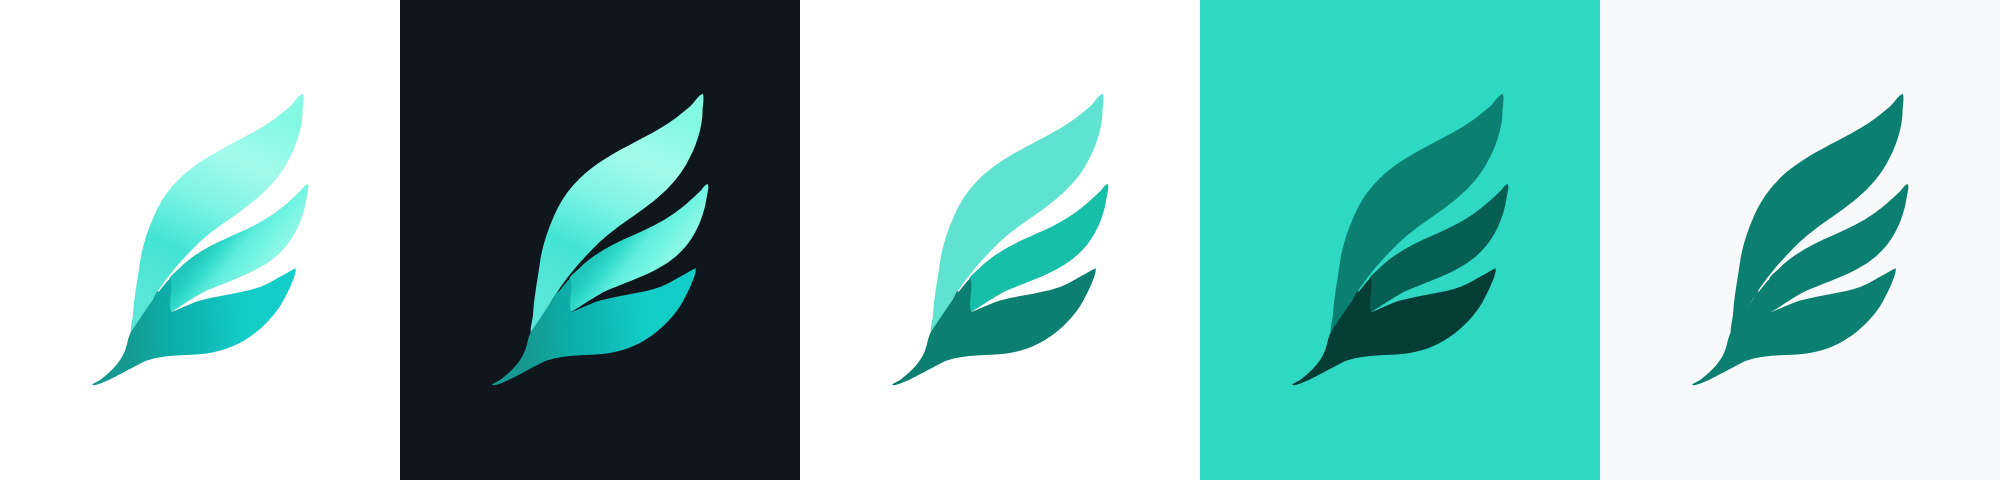
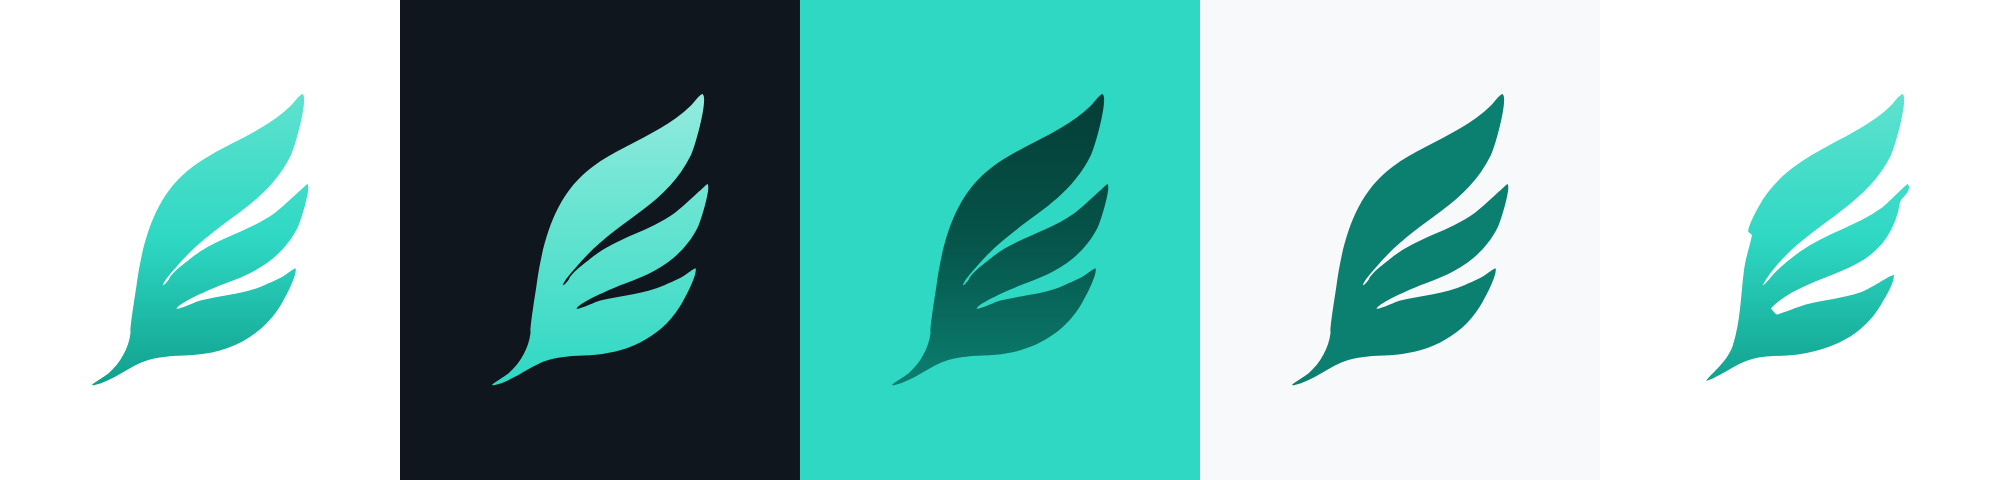
마크를 하나의 윤곽선 + 세로 그라데이션으로 다시 짠다
원본 래스터를 좇는 대신 형태를 정리했다. 세 깃털의 합집합 윤곽을 한 번에 베지어로 맞춰
바깥 선이 줄기 끝에서 맨 위 깃털 끝까지 끊기지 않고 이어지게 했다. 코너는 줄기 끝·깃털 끝
3개·노치 바닥 2개로 정확히 6개. 전체가 path 한 장 26 세그먼트이고 색은 세로 그라데이션 하나다.

mark.svg 2641 → 1352 bytes. 3톤 구성이 사라져 mark-tone.svg 를 지웠다.
mark-small.svg 은 노치만 18px 넓힌 판이다 — 전체를 깎으면 깃털이 분리돼 버린다.

그라데이션 id 를 파일마다 다르게 했다. 전부 id="g" 를 쓰고 있어서 한 페이지에 여러 변형을
인라인하면 마지막 정의가 나머지를 덮어쓰는 버그가 있었다(민트 바탕 판이 안 보였다).

광택 띠는 재현하지 못했다. 선형·타원 그라데이션 둘 다 색차가 나빠져 넣지 않았다.

diff --git a/index.html b/index.html
@@ -577,7 +577,7 @@ a.list-row:hover { background: var(--bg-subtle); }
 </style>
 </head>
 <body>
-<svg width="0" height="0" style="position:absolute" aria-hidden="true"><defs><linearGradient id="mk-g-top" gradientUnits="userSpaceOnUse" x1="-228.7" y1="479.5" x2="72.7" y2="-152.3"><stop offset="0.0" stop-color="#57e6d7"/><stop offset="0.25" stop-color="#43e4d5"/><stop offset="0.5" stop-color="#7df4e3"/><stop offset="0.75" stop-color="#a4faeb"/><stop offset="1.0" stop-color="#83f9e4"/></linearGradient><linearGradient id="mk-g-mid" gradientUnits="userSpaceOnUse" x1="677.8" y1="520.4" x2="833.2" y2="639.7"><stop offset="0.0" stop-color="#20c7ba"/><stop offset="0.25" stop-color="#33dbcd"/><stop offset="0.5" stop-color="#5feddc"/><stop offset="0.75" stop-color="#72f4e1"/><stop offset="1.0" stop-color="#89f7e5"/></linearGradient><linearGradient id="mk-g-bot" gradientUnits="userSpaceOnUse" x1="286.9" y1="-16.0" x2="791.8" y2="-44.1"><stop offset="0.0" stop-color="#159991"/><stop offset="0.25" stop-color="#0daca5"/><stop offset="0.5" stop-color="#0eb9b5"/><stop offset="0.75" stop-color="#13ccc6"/><stop offset="1.0" stop-color="#12cdc8"/></linearGradient><symbol id="mark-grad" viewBox="52 81 1056 1056"><path fill="url(#mk-g-top)" d="M918 126.7C925.4 130.7 918.5 172.2 918.5 182C918.5 242.5 893.5 309.8 863.3 361.8C807.9 457.4 715.6 511.2 628.6 574.1C580.3 609 538.3 655.1 499.5 700C461.8 743.7 429.4 793.7 400.7 843.2C390.8 860.3 368.3 905 352.6 913.9C347.4 911.6 358 867.7 358.5 859C361.5 799 374.3 739.4 382.4 679.9C389.3 629.1 406.8 579.5 427 532.5C498.6 365.4 634.2 324.2 778.8 240.3C813.6 220.1 845.7 195.6 876 169.5C889.9 157.4 902.1 135 918 126.7Z"/><path fill="url(#mk-g-mid)" d="M484.5 845.8C483.2 844.6 481.9 843.7 481.6 841.9C476.7 809.3 483.2 774 481.5 741C481.4 739 477.3 738.3 478.2 736.5C483.9 724.6 500.6 712.8 510 703.5C606.1 608.2 724.2 593.7 826.4 519.9C856.5 498.2 882.8 474.5 909.5 449C916.8 442 924.9 426.4 934.7 423.8C942 429.8 933.8 456.2 932.6 465.1C927.1 506.4 913.7 546.8 894.3 583.8C834.1 699.1 713 728.7 602.5 776C569.2 790.3 500.2 840.3 484.5 845.8Z"/><path fill="url(#mk-g-bot)" d="M223.9 1087.6C226.8 1080.7 244.7 1074.8 251.4 1069.9C276.8 1051.6 299 1030.4 316.9 1004.4C341.5 969 337.2 942.2 351.3 913.8C352.8 910.9 415.6 817.1 421.9 808.4C425.6 803.3 436.5 780.6 437.4 779.7C440.6 776.3 442.9 780.6 443.9 779.4C456.8 764.6 467.2 747.8 482.5 735.2C493 754.1 472.6 833 486.5 845.8C500.9 842.8 553.8 816 580.3 808.8C647.4 790.3 716.6 785.6 782.8 762.3C804.8 754.5 891.6 702.7 895.4 702.2C902.1 720.4 856.6 809.2 844.1 827.6C786.7 911.4 704.3 969.8 601.9 983.4C537.5 991.9 469.7 984.9 407.2 1005.7C370.3 1018.1 250.8 1095.1 223.9 1087.6Z"/></symbol><symbol id="mark-tone" viewBox="52 81 1056 1056"><path fill="var(--leaf-top)" d="M918 126.7C925.4 130.7 918.5 172.2 918.5 182C918.5 242.5 893.5 309.8 863.3 361.8C807.9 457.4 715.6 511.2 628.6 574.1C580.3 609 538.3 655.1 499.5 700C461.8 743.7 429.4 793.7 400.7 843.2C390.8 860.3 368.3 905 352.6 913.9C347.4 911.6 358 867.7 358.5 859C361.5 799 374.3 739.4 382.4 679.9C389.3 629.1 406.8 579.5 427 532.5C498.6 365.4 634.2 324.2 778.8 240.3C813.6 220.1 845.7 195.6 876 169.5C889.9 157.4 902.1 135 918 126.7Z"/><path fill="var(--leaf-mid)" d="M484.5 845.8C483.2 844.6 481.9 843.7 481.6 841.9C476.7 809.3 483.2 774 481.5 741C481.4 739 477.3 738.3 478.2 736.5C483.9 724.6 500.6 712.8 510 703.5C606.1 608.2 724.2 593.7 826.4 519.9C856.5 498.2 882.8 474.5 909.5 449C916.8 442 924.9 426.4 934.7 423.8C942 429.8 933.8 456.2 932.6 465.1C927.1 506.4 913.7 546.8 894.3 583.8C834.1 699.1 713 728.7 602.5 776C569.2 790.3 500.2 840.3 484.5 845.8Z"/><path fill="var(--leaf-bot)" d="M223.9 1087.6C226.8 1080.7 244.7 1074.8 251.4 1069.9C276.8 1051.6 299 1030.4 316.9 1004.4C341.5 969 337.2 942.2 351.3 913.8C352.8 910.9 415.6 817.1 421.9 808.4C425.6 803.3 436.5 780.6 437.4 779.7C440.6 776.3 442.9 780.6 443.9 779.4C456.8 764.6 467.2 747.8 482.5 735.2C493 754.1 472.6 833 486.5 845.8C500.9 842.8 553.8 816 580.3 808.8C647.4 790.3 716.6 785.6 782.8 762.3C804.8 754.5 891.6 702.7 895.4 702.2C902.1 720.4 856.6 809.2 844.1 827.6C786.7 911.4 704.3 969.8 601.9 983.4C537.5 991.9 469.7 984.9 407.2 1005.7C370.3 1018.1 250.8 1095.1 223.9 1087.6Z"/></symbol><symbol id="mark-small" viewBox="52 81 1056 1056"><path fill="var(--leaf-top)" d="M 311 862.6 C 302.3 816.8 325.1 754.3 331.3 708.2 C 371.9 408.5 521.3 366.2 749 234 C 775.7 218.5 884.4 130.4 893.6 127.6 C 895.8 376 688.4 462.9 531.3 598.7 C 413.7 700.4 392.6 768.5 311 862.6 Z"/><path fill="var(--leaf-mid)" d="M 448.2 848.7 C 445.6 836.5 440.3 782.6 444.8 773.3 C 480.8 698.3 712.9 616.8 788.9 572.7 C 832.5 547.5 864.7 510.5 905 482.3 C 907.8 503.5 892 533.8 884.9 553.8 C 832.6 702.2 686.1 732.4 556.5 788 C 518.6 804.3 485.6 833.8 448.2 848.7 Z"/><path fill="var(--leaf-bot)" d="M 256.2 1088 C 260 1047.9 352.8 886.9 383.6 850.4 C 389.9 883.8 382.1 916.5 420.5 935.4 C 422.6 936.5 430.8 930.5 433.1 929.4 C 464.2 913.8 496.8 901.3 530.5 892 C 662.7 855.6 710.2 858.5 846.2 800.9 C 845.8 824.3 820 861.8 806.8 881.3 C 699.7 1037.6 528.7 1026.6 360.3 1048.9 C 321.9 1053.9 291.8 1078.2 256.2 1088 Z"/></symbol></defs></svg>
+<svg width="0" height="0" style="position:absolute" aria-hidden="true"><defs><linearGradient id="lez-p-grad" gradientUnits="userSpaceOnUse" x1="0" y1="126" x2="0" y2="1088"><stop offset="0" stop-color="#5fe2cf"/><stop offset="0.5" stop-color="#2ed8c3"/><stop offset="1" stop-color="#0fa08d"/></linearGradient><linearGradient id="lez-p-dark" gradientUnits="userSpaceOnUse" x1="0" y1="126" x2="0" y2="1088"><stop offset="0" stop-color="#93ebde"/><stop offset="0.5" stop-color="#5fe2cf"/><stop offset="1" stop-color="#2ed8c3"/></linearGradient><symbol id="mark-grad" viewBox="52 81 1056 1056"><path fill="url(#lez-p-grad)" d="M229.7 1088.2C227.4 1088.3 226.2 1088.2 224.2 1087.5C225.8 1083.1 270.5 1056.3 278.5 1049C316 1014.8 345.2 966.1 350.8 914.7C347.5 902.5 367.3 781.9 370.3 759.8C390.5 612.8 429.8 460.1 555.6 367.1C625 315.8 705 284.3 778.8 240.3C814.8 218.8 851.3 194.2 881 164.5C890.1 155.4 906.7 129.8 918.7 127C938.3 143 893.6 302.3 880.3 328.8C790.9 507.8 635.4 536.4 497.4 702.9C484.4 718.8 464.6 738.7 457.2 757.9C460.1 761.7 474.4 742.4 477.7 738.5C484.2 718.7 533 683.5 549.9 669.4C631.8 601.7 741.2 582.2 826.4 519.9C846.5 505.2 932.5 424.5 934.7 424C947.4 434.3 912.1 548.1 903 566.5C854 665.6 766.6 716.4 665 751.5C640 760.1 509.5 814.8 502.4 835.5C516.2 837.6 563.6 812.8 581.1 808.6C651.2 791.8 727.8 787.8 794.1 757.6C821 745.5 851.6 734.1 874.5 715C878.6 711.5 891.1 701.6 895.8 702.8C899.9 725.9 864.4 792 852.4 813.9C794.3 919.8 683.9 978.6 565.9 987.4C513.3 991.4 460.7 989.6 409.5 1005C345.7 1024.2 295.3 1074.6 229.7 1088.2Z"/></symbol><symbol id="mark-grad-dark" viewBox="52 81 1056 1056"><path fill="url(#lez-p-dark)" d="M229.7 1088.2C227.4 1088.3 226.2 1088.2 224.2 1087.5C225.8 1083.1 270.5 1056.3 278.5 1049C316 1014.8 345.2 966.1 350.8 914.7C347.5 902.5 367.3 781.9 370.3 759.8C390.5 612.8 429.8 460.1 555.6 367.1C625 315.8 705 284.3 778.8 240.3C814.8 218.8 851.3 194.2 881 164.5C890.1 155.4 906.7 129.8 918.7 127C938.3 143 893.6 302.3 880.3 328.8C790.9 507.8 635.4 536.4 497.4 702.9C484.4 718.8 464.6 738.7 457.2 757.9C460.1 761.7 474.4 742.4 477.7 738.5C484.2 718.7 533 683.5 549.9 669.4C631.8 601.7 741.2 582.2 826.4 519.9C846.5 505.2 932.5 424.5 934.7 424C947.4 434.3 912.1 548.1 903 566.5C854 665.6 766.6 716.4 665 751.5C640 760.1 509.5 814.8 502.4 835.5C516.2 837.6 563.6 812.8 581.1 808.6C651.2 791.8 727.8 787.8 794.1 757.6C821 745.5 851.6 734.1 874.5 715C878.6 711.5 891.1 701.6 895.8 702.8C899.9 725.9 864.4 792 852.4 813.9C794.3 919.8 683.9 978.6 565.9 987.4C513.3 991.4 460.7 989.6 409.5 1005C345.7 1024.2 295.3 1074.6 229.7 1088.2Z"/></symbol><symbol id="mark-solid" viewBox="52 81 1056 1056"><path fill="currentColor" d="M229.7 1088.2C227.4 1088.3 226.2 1088.2 224.2 1087.5C225.8 1083.1 270.5 1056.3 278.5 1049C316 1014.8 345.2 966.1 350.8 914.7C347.5 902.5 367.3 781.9 370.3 759.8C390.5 612.8 429.8 460.1 555.6 367.1C625 315.8 705 284.3 778.8 240.3C814.8 218.8 851.3 194.2 881 164.5C890.1 155.4 906.7 129.8 918.7 127C938.3 143 893.6 302.3 880.3 328.8C790.9 507.8 635.4 536.4 497.4 702.9C484.4 718.8 464.6 738.7 457.2 757.9C460.1 761.7 474.4 742.4 477.7 738.5C484.2 718.7 533 683.5 549.9 669.4C631.8 601.7 741.2 582.2 826.4 519.9C846.5 505.2 932.5 424.5 934.7 424C947.4 434.3 912.1 548.1 903 566.5C854 665.6 766.6 716.4 665 751.5C640 760.1 509.5 814.8 502.4 835.5C516.2 837.6 563.6 812.8 581.1 808.6C651.2 791.8 727.8 787.8 794.1 757.6C821 745.5 851.6 734.1 874.5 715C878.6 711.5 891.1 701.6 895.8 702.8C899.9 725.9 864.4 792 852.4 813.9C794.3 919.8 683.9 978.6 565.9 987.4C513.3 991.4 460.7 989.6 409.5 1005C345.7 1024.2 295.3 1074.6 229.7 1088.2Z"/></symbol><symbol id="mark-small" viewBox="52 81 1056 1056"><path fill="url(#lez-p-grad)" d="M270.4 1074.1C276.8 1057.4 339.1 1014.2 358.3 956.8C384.3 878.5 384.7 787 395.6 705.1C400.6 667.3 413.6 631.9 421.2 594.8C422.5 588.4 407.5 584.6 408.8 578.2C414 553 428.8 526.8 440.7 504.2C513.6 364.7 650 315.1 778.8 240.3C813.7 220 849.9 195.6 878.5 167C888.4 157.1 906 130.2 918.7 126.8C938.7 143.4 893.2 303.1 879.7 330.2C784.1 521.8 565.7 570 457.1 757.4C459.7 763.4 489.4 724.1 495 718.5C521.7 691.8 550.1 668.9 580.6 647.1C663.7 587.6 766.6 563.1 851.4 501.9C864.2 492.7 931.1 424.1 935.4 424.1C951.8 443.9 918 469.4 913.1 477.6C907.4 487.2 906.8 504.3 903.8 515.3C859.2 677.1 738.8 699.6 602.5 758C562.9 775 520.5 798 490 828.5C487.3 831.2 483 833.4 485.5 837C489 840.5 499.2 854.6 504 854.9C509.3 855.3 582.6 826.5 596.3 822.8C658.1 805.9 721.7 801.8 782.8 780.3C813.8 769.3 870.7 728.3 890.2 723.5C890.5 753.5 863.4 794.8 848.7 820.2C787.2 926.1 683.3 972 566.9 987.4C519.5 993.7 472 988.9 425.3 1000.8C367.9 1015.4 325.1 1056.6 270.4 1074.1Z"/></symbol></defs></svg>
 
 <div class="ds-bar">
   <button class="btn btn--secondary btn--sm" id="nav-open" aria-controls="ds-nav" aria-expanded="false">메뉴</button>
@@ -589,7 +589,7 @@ a.list-row:hover { background: var(--bg-subtle); }
 <div class="ds-shell">
 <nav class="ds-nav" id="ds-nav" aria-label="문서 목차">
   <a class="ds-brand" href="#top">
-    <svg aria-hidden="true" style="--leaf-top:#5fe2cf;--leaf-mid:#17bfa9;--leaf-bot:#0b7f70"><use href="#mark-small"/></svg>
+    <svg aria-hidden="true"><use href="#mark-small"/></svg>
     <span><b>가볍지이지</b><small>Design System v0.1</small></span>
   </a>
   <ol>
@@ -638,15 +638,15 @@ a.list-row:hover { background: var(--bg-subtle); }
 
   <!-- ================================================================ 브랜드 -->
   <section class="ds-section" id="brand">
-    <header><h2>브랜드</h2><p>마크는 민트 세 잎 깃털이에요. 원본 래스터(<code>assets/source/mark-original-1254.png</code>)를 잎 3장으로 나눠 외곽선을 3차 베지어로 다시 맞췄어요 — 잎당 12·11·15개, 원본 실루엣과 <b>97.5%</b> 일치해요. 그라데이션은 잎마다 색이 실제로 변하는 축을 회귀로 찾아 원본에서 5스톱을 샘플했어요. 파일은 <code>mark.svg</code>(기본) · <code>mark-dark.svg</code>(어두운 바탕) · <code>mark-tone.svg</code>(3톤) · <code>mark-onbrand.svg</code>(민트 바탕) · <code>mark-flat.svg</code>(단색) · <code>mark-small.svg</code>(32px 이하)예요.</p></header>
+    <header><h2>브랜드</h2><p>마크는 민트 깃털이에요. <b>바깥 윤곽이 하나의 곡선</b>이에요 — 줄기 끝에서 맨 위 깃털 끝까지 끊기지 않고 이어지고, 세 깃털은 안쪽에서 파인 노치로만 갈라져요. 전체가 path 한 장(세그먼트 26개)이고 위에서 아래로 흐르는 세로 그라데이션 하나를 써요. 파일은 <code>mark.svg</code>(기본) · <code>mark-dark.svg</code>(어두운 바탕) · <code>mark-onbrand.svg</code>(민트 바탕) · <code>mark-flat.svg</code>(단색 currentColor) · <code>mark-small.svg</code>(32px 이하)예요.</p></header>
     <div class="brand-grid">
       <div class="brand-tile light"><svg aria-hidden="true"><use href="#mark-grad"/></svg><span class="wm">가볍지이지</span><small>흰 바탕 · 기본</small></div>
-      <div class="brand-tile dark" style="--leaf-top:#93ebde;--leaf-mid:#2ed8c3;--leaf-bot:#0fa08d"><svg aria-hidden="true"><use href="#mark-tone"/></svg><span class="wm">가볍지이지</span><small>어두운 바탕 · 마크가 밝아져요</small></div>
-      <div class="brand-tile mint" style="--leaf-top:#0b7f70;--leaf-mid:#075e53;--leaf-bot:#043d36"><svg aria-hidden="true"><use href="#mark-tone"/></svg><span class="wm">가볍지이지</span><small>민트 바탕 · 단색 마크</small></div>
+      <div class="brand-tile dark"><svg aria-hidden="true"><use href="#mark-grad-dark"/></svg><span class="wm">가볍지이지</span><small>어두운 바탕 · 마크가 밝아져요</small></div>
+      <div class="brand-tile mint" style="color:#043d36"><svg aria-hidden="true"><use href="#mark-solid"/></svg><span class="wm">가볍지이지</span><small>민트 바탕 · 단색 마크</small></div>
     </div>
     <details class="rules"><summary>사용 규칙</summary><div class="body">
-      <div class="do"><b>이렇게</b><ul><li>워드마크는 헤딩 서체(에이투지체 700)로, 마크 높이의 1/2 여백을 사방에 둬요</li><li>SignalB 제품명은 "SignalB" 한 단어로 붙여 써요. 리포트 kicker에서만 "Signal B · 시장 신호 리포트"를 허용해요</li><li><b>32px 이하에서는 <code>mark-small.svg</code></b>를 써요 — 잎을 깎고 다시 키워 틈을 넓힌 판이에요</li><li>마크 최소 크기 16px(파비콘), 워드마크 최소 12px</li></ul></div>
-      <div class="dont"><b>이렇게는 안 돼요</b><ul><li>마크에 그림자·외곽선·다른 그라데이션을 얹지 않아요</li><li>민트 위에 민트 마크를 두지 않아요 — 민트 바탕에는 단색(짙은 민트) 마크</li><li>세 잎의 간격과 기울기를 바꾸지 않아요</li></ul></div>
+      <div class="do"><b>이렇게</b><ul><li>워드마크는 헤딩 서체(에이투지체 700)로, 마크 높이의 1/2 여백을 사방에 둬요</li><li>SignalB 제품명은 "SignalB" 한 단어로 붙여 써요. 리포트 kicker에서만 "Signal B · 시장 신호 리포트"를 허용해요</li><li><b>32px 이하에서는 <code>mark-small.svg</code></b>를 써요 — 노치를 18px 넓힌 판이라 작은 크기에서 깃털이 안 뭉개져요. 큰 크기에는 쓰지 않아요</li><li>마크 최소 크기 16px(파비콘), 워드마크 최소 12px</li></ul></div>
+      <div class="dont"><b>이렇게는 안 돼요</b><ul><li>마크에 그림자·외곽선을 얹지 않아요. 그라데이션은 파일에 든 세로 하나만 써요</li><li>민트 위에 민트 마크를 두지 않아요 — 민트 바탕에는 단색(짙은 민트) 마크</li><li>바깥 윤곽을 끊거나 깃털을 따로 떼어 쓰지 않아요 — 하나의 선이 이 마크의 정체성이에요</li></ul></div>
     </div></details>
   </section>
 

diff --git a/README.md b/README.md
@@ -36,37 +36,30 @@
 
 ## 마크 (assets/)
 
-원본 래스터 `assets/source/mark-original-1254.png`를 잎 3장으로 분리(열 스캔)한 뒤,
-외곽선을 **3차 베지어로 다시 맞췄다**(Schneider 피팅, 코너에서 분할). 잎당 12·11·15 세그먼트.
-그라데이션은 잎마다 **색이 실제로 변하는 축을 회귀로 찾아** 원본에서 5스톱을 샘플했다.
+마크는 **바깥 윤곽이 하나의 곡선**이다. 줄기 끝에서 맨 위 깃털 끝까지 끊기지 않고 이어지고,
+세 깃털은 안쪽에서 파인 노치로만 갈라진다. 전체가 `<path>` 한 장(3차 베지어 26 세그먼트)이고,
+색은 위에서 아래로 흐르는 세로 그라데이션 하나다 — `#5fe2cf → #2ed8c3 → #0fa08d`.
 
-| | 실루엣 IoU | 색차 | 세그먼트 | mark.svg |
-|---|---|---|---|---|
-| 자동 트레이스(v2, 2026-09-12 초판) | 0.9704 | 13.6 | 143 | 6.1KB |
-| **베지어 재구성(현재)** | **0.9747** | **11.5** | **38** | **2.6KB** |
+만든 방법: 원본 래스터(`assets/source/mark-original-1254.png`)에서 세 깃털을 분리해 합집합을 구하고,
+그 합집합의 윤곽을 한 번에 베지어로 맞췄다(코너는 줄기 끝·깃털 끝 3개·노치 바닥 2개, 정확히 6개).
 
-시도했다가 버린 것: 원본에는 잎 가운데를 지나는 밝은 띠가 있는데, 흰색 오버레이를
-선형 그라데이션으로 얹어봤더니 색차가 11.5 → 14.3 으로 **나빠졌다**. 그 띠는 잎의 굽은
-등줄기를 따라가는 곡선이라 직선 그라데이션으로는 표현할 수 없다(수직 좌표 2차 적합 R² 0.00~0.05).
-살리려면 곡선 오버레이 path + 블러 필터가 필요하고, 그건 인쇄·임포트에서 깨질 수 있어 택하지 않았다.
+| 파일 | 쓰임 | 크기 |
+|---|---|---|
+| `mark.svg` | 기본. 흰·밝은 바탕 | 1.4KB |
+| `mark-dark.svg` | 어두운 바탕 — 그라데이션을 한 단계 올림 | 1.4KB |
+| `mark-onbrand.svg` | 민트 바탕 위 — 짙게 내림 | 1.4KB |
+| `mark-flat.svg` | 단색 `currentColor` — 인쇄·워터마크 | 1.1KB |
+| `mark-small.svg` | **32px 이하 전용.** 노치를 18px 넓혀 작은 크기에서 깃털이 안 뭉개진다. 큰 크기에 쓰지 않는다 | 1.4KB |
+| `favicon/mark-{16,24,32}.png` | 소형 마크에서 생성 | |
+| `favicon/mark-{48…512}.png` | 기본 마크에서 생성 | |
 
-| 파일 | 쓰임 |
-|---|---|
-| `mark.svg` | 기본. 흰·밝은 바탕 |
-| `mark-dark.svg` | 어두운 바탕 — 그라데이션을 한 단계 밝게 |
-| `mark-tone.svg` | 3톤 단색(민트 300/500/700) — 그라데이션이 안 되는 곳 |
-| `mark-onbrand.svg` | 민트 바탕 위 — 짙은 3톤 |
-| `mark-flat.svg` | 완전 단색 `currentColor` — 인쇄·워터마크 |
-| `mark-small.svg` | **32px 이하 전용.** 잎을 28px 깎고 원래 bbox로 다시 키워 틈을 넓혔다 |
-| `favicon/mark-{16,24,32}.png` | 소형 마크에서 생성 |
-| `favicon/mark-{48…512}.png` | 기본 마크에서 생성 |
+viewBox 는 모두 `52 81 1056 1056` 라 서로 바꿔 끼울 수 있다.
+그라데이션 id 는 파일마다 다르다(`lez-mark`, `lez-mark-dark`, …) — 한 페이지에 여러 개를 인라인해도
+id 가 충돌하지 않게 하기 위해서다. **새 변형을 만들 때도 id 를 반드시 바꾼다.**
 
-viewBox는 다섯 파일 모두 `52 81 1056 1056`(정사각, 마크 가운데 정렬)라 서로 바꿔 끼울 수 있다.
-잎은 `#leaf-top` `#leaf-mid` `#leaf-bot` 세 path이고 그리는 순서가 곧 z-order(아래 잎이 맨 위)다.
-
-Figma 브랜드 파일: https://www.figma.com/design/25DpM8yBlpfhiZnQ8k8nWK (가볍지이지 브랜드, Test Design 팀).
-비어 있다 — `assets/*.svg` 를 캔버스에 끌어다 놓으면 그라데이션까지 그대로 들어온다.
-MCP 로 자동 배치하려면 Figma Starter 플랜의 월 20회 도구 호출 한도를 넘겨야 한다.
+원본 추적을 그만둔 이유: 원본 PNG 는 투명 체커보드가 배경에 구워진 캡처본이라 깨끗한 마스터가 아니다.
+잎 가운데를 지나는 광택 띠를 선형·타원 그라데이션으로 두 번 재현해봤지만 둘 다 색차가 나빠졌다
+(11.5 → 14.3, → 11.8). 래스터를 좇는 대신 단색 + 하나의 윤곽으로 다시 정리했다.
 
 ## 아직 없는 것
 
